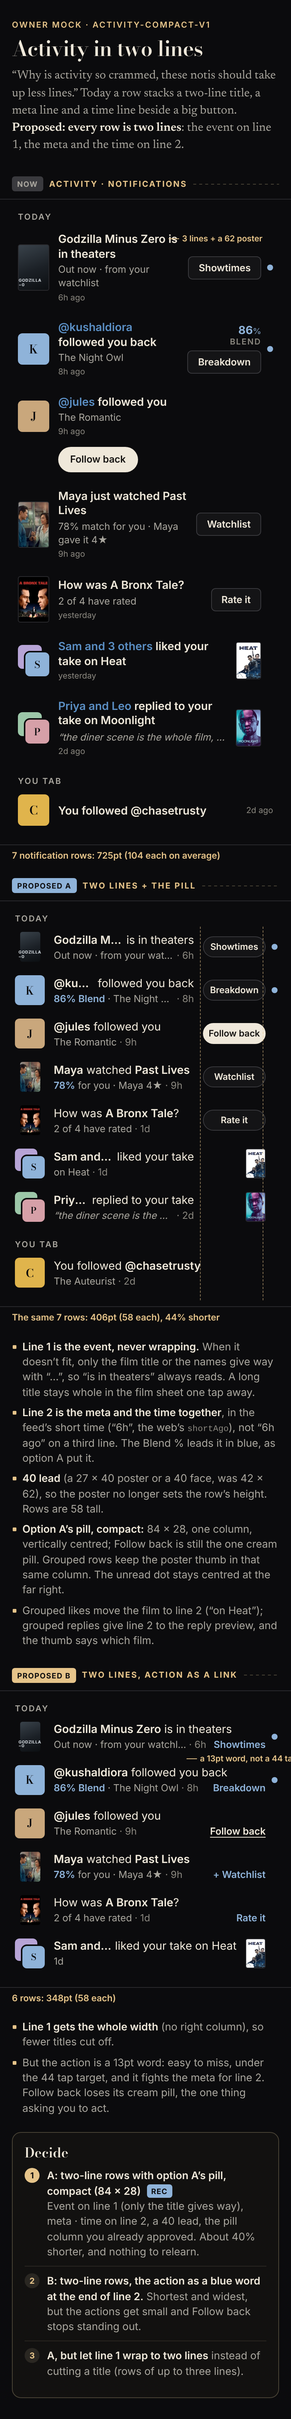
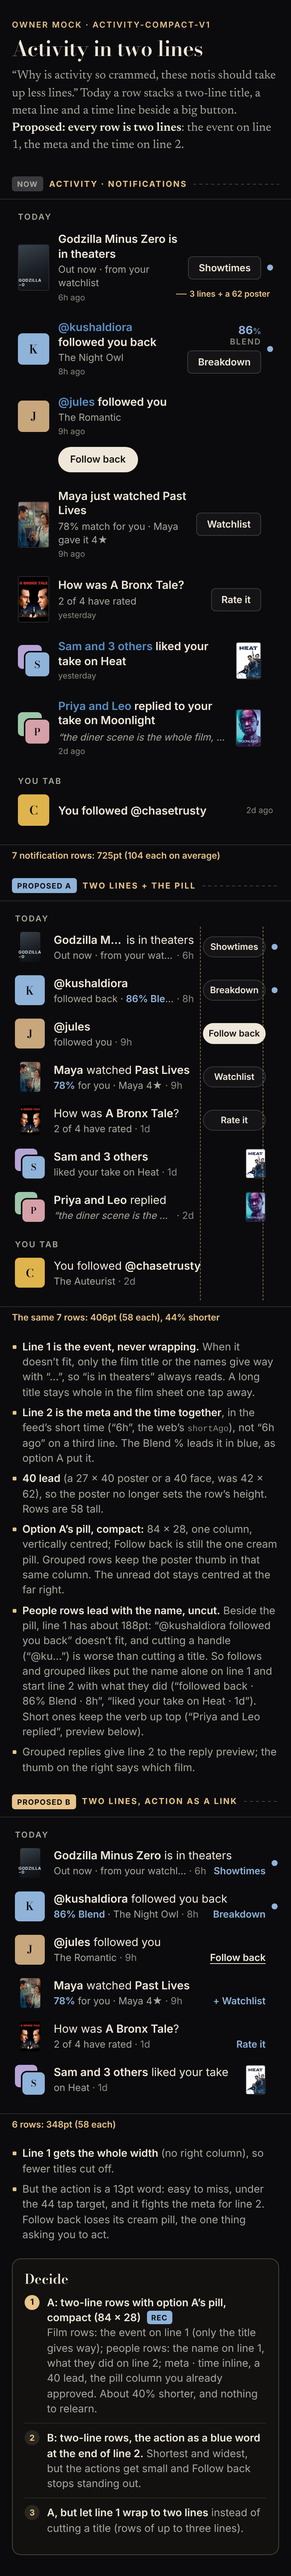
Update mock files
Claude-Session: https://claude.ai/code/session_013WRDCFXH8nihP92apJAVW7

Changed region(s): [[0.0308, 0.0, 0.9538, 0.9985], [0.7077, 0.1872, 0.9231, 0.312], [0.6462, 0.0936, 0.9231, 0.156]]

diff --git a/mockups/journeys/activity-compact-v1.html b/mockups/journeys/activity-compact-v1.html
@@ -93,7 +93,7 @@
   <div class="n-row"><span class="n-faces"><span class="fc" style="background:#9cc7a8">L</span><span class="fc top" style="background:#d6a0a8">P</span></span><div class="n-body"><div class="n-name"><em>Priya and Leo</em> replied to your take on Moonlight</div><div class="n-quote">“the diner scene is the whole film, honestly”</div><div class="n-time">2d ago</div></div><div class="n-aside"><i class="n-thumb" data-p="MOON"></i></div></div>
   <div class="caps" style="margin:14px 0 2px 8px">You tab</div>
   <div class="yrow"><span class="n-av fc" style="background:#e0b44c">C</span><div class="n-body"><div class="n-name">You followed @chasetrusty</div></div><span class="ytime">2d ago</span></div>
-  <div class="call" style="left:226px;top:46px">3 lines + a 62 poster</div>
+  <div class="call" style="left:236px;top:120px">3 lines + a 62 poster</div>
 </div>
 <div class="meas" id="m-now"></div>
 
@@ -102,12 +102,12 @@
 <div class="scr" id="pa">
   <div class="caps" style="margin:4px 0 2px 4px">Today</div>
   <div class="c-row"><div class="c-lead"><span class="po gz">GODZILLA −0</span></div><div class="c-body"><div class="l1"><b class="tr">Godzilla Minus Zero</b><span class="sp"> is in theaters</span></div><div class="l2"><span class="tx">Out now · from your watchlist</span><span class="tm">&nbsp;· 6h</span></div></div><span class="pa">Showtimes</span><span class="dot"></span></div>
-  <div class="c-row"><div class="c-lead"><span class="fc" style="background:#8fb3d9">K</span></div><div class="c-body"><div class="l1"><b class="tr">@kushaldiora</b><span class="sp"> followed you back</span></div><div class="l2"><span class="tx"><span class="bl">86% Blend</span> · The Night Owl</span><span class="tm">&nbsp;· 8h</span></div></div><span class="pa">Breakdown</span><span class="dot"></span></div>
-  <div class="c-row"><div class="c-lead"><span class="fc" style="background:#c9a77c">J</span></div><div class="c-body"><div class="l1"><b class="tr">@jules</b><span class="sp"> followed you</span></div><div class="l2"><span class="tx">The Romantic</span><span class="tm">&nbsp;· 9h</span></div></div><span class="pa prim">Follow back</span></div>
+  <div class="c-row"><div class="c-lead"><span class="fc" style="background:#8fb3d9">K</span></div><div class="c-body"><div class="l1"><b class="tr">@kushaldiora</b></div><div class="l2"><span class="tx">followed back · <span class="bl">86% Blend</span></span><span class="tm">&nbsp;· 8h</span></div></div><span class="pa">Breakdown</span><span class="dot"></span></div>
+  <div class="c-row"><div class="c-lead"><span class="fc" style="background:#c9a77c">J</span></div><div class="c-body"><div class="l1"><b class="tr">@jules</b></div><div class="l2"><span class="tx">followed you</span><span class="tm">&nbsp;· 9h</span></div></div><span class="pa prim">Follow back</span></div>
   <div class="c-row"><div class="c-lead"><i class="po" data-p="PAST"></i></div><div class="c-body"><div class="l1"><b>Maya</b><span class="sp"> watched </span><b class="tr">Past Lives</b></div><div class="l2"><span class="tx"><span class="bl">78%</span> for you · Maya 4★</span><span class="tm">&nbsp;· 9h</span></div></div><span class="pa">Watchlist</span></div>
   <div class="c-row"><div class="c-lead"><i class="po bx"></i></div><div class="c-body"><div class="l1"><span class="sp">How was </span><b class="tr">A Bronx Tale</b><span>?</span></div><div class="l2"><span class="tx">2 of 4 have rated</span><span class="tm">&nbsp;· 1d</span></div></div><span class="pa">Rate it</span></div>
-  <div class="c-row"><div class="c-lead"><span class="fc s" style="background:#b7a4d6">P</span><span class="fc s top" style="background:#8fb3d9">S</span></div><div class="c-body"><div class="l1"><b class="tr">Sam and 3 others</b><span class="sp"> liked your take</span></div><div class="l2"><span class="tx">on Heat</span><span class="tm">&nbsp;· 1d</span></div></div><span class="c-thumb"><i data-p="HEAT"></i></span></div>
-  <div class="c-row"><div class="c-lead"><span class="fc s" style="background:#9cc7a8">L</span><span class="fc s top" style="background:#d6a0a8">P</span></div><div class="c-body"><div class="l1"><b class="tr">Priya and Leo</b><span class="sp"> replied to your take</span></div><div class="l2"><span class="tx q">“the diner scene is the whole film, honestly”</span><span class="tm">&nbsp;· 2d</span></div></div><span class="c-thumb"><i data-p="MOON"></i></span></div>
+  <div class="c-row"><div class="c-lead"><span class="fc s" style="background:#b7a4d6">P</span><span class="fc s top" style="background:#8fb3d9">S</span></div><div class="c-body"><div class="l1"><b class="tr">Sam and 3 others</b></div><div class="l2"><span class="tx">liked your take on Heat</span><span class="tm">&nbsp;· 1d</span></div></div><span class="c-thumb"><i data-p="HEAT"></i></span></div>
+  <div class="c-row"><div class="c-lead"><span class="fc s" style="background:#9cc7a8">L</span><span class="fc s top" style="background:#d6a0a8">P</span></div><div class="c-body"><div class="l1"><b class="tr">Priya and Leo</b><span class="sp"> replied</span></div><div class="l2"><span class="tx q">“the diner scene is the whole film, honestly”</span><span class="tm">&nbsp;· 2d</span></div></div><span class="c-thumb"><i data-p="MOON"></i></span></div>
   <div class="caps" style="margin:14px 0 2px 4px">You tab</div>
   <div class="c-row you"><div class="c-lead"><span class="fc" style="background:#e0b44c">C</span></div><div class="c-body y1"><div class="l1"><span class="sp">You followed </span><b class="tr">@chasetrusty</b></div><div class="l2"><span class="tx">The Auteurist</span><span class="tm">&nbsp;· 2d</span></div></div></div>
   <div class="guide" style="left:268px"></div><div class="guide" style="left:352px"></div>
@@ -118,7 +118,8 @@
   <li><b>Line 2 is the meta and the time together</b>, in the feed’s short time (“6h”, the web’s <span class="mono">shortAgo</span>), not “6h ago” on a third line. The Blend % leads it in blue, as option A put it.</li>
   <li><b>40 lead</b> (a 27 × 40 poster or a 40 face, was 42 × 62), so the poster no longer sets the row’s height. Rows are 58 tall.</li>
   <li><b>Option A’s pill, compact:</b> 84 × 28, one column, vertically centred; Follow back is still the one cream pill. Grouped rows keep the poster thumb in that same column. The unread dot stays centred at the far right.</li>
-  <li>Grouped likes move the film to line 2 (“on Heat”); grouped replies give line 2 to the reply preview, and the thumb says which film.</li>
+  <li><b>People rows lead with the name, uncut.</b> Beside the pill, line 1 has about 188pt: “@kushaldiora followed you back” doesn’t fit, and cutting a handle (“@ku…”) is worse than cutting a title. So follows and grouped likes put the name alone on line 1 and start line 2 with what they did (“followed back · 86% Blend · 8h”, “liked your take on Heat · 1d”). Short ones keep the verb up top (“Priya and Leo replied”, preview below).</li>
+  <li>Grouped replies give line 2 to the reply preview; the thumb on the right says which film.</li>
 </ul></div>
 
 <!-- ───────────────────────── B ───────────────────────── -->
@@ -130,8 +131,7 @@
   <div class="c-row"><div class="c-lead"><span class="fc" style="background:#c9a77c">J</span></div><div class="c-body"><div class="l1"><b class="tr">@jules</b><span class="sp"> followed you</span></div><div class="l2"><span class="tx">The Romantic</span><span class="tm">&nbsp;· 9h</span><span class="lk prim">Follow back</span></div></div></div>
   <div class="c-row"><div class="c-lead"><i class="po" data-p="PAST"></i></div><div class="c-body"><div class="l1"><b>Maya</b><span class="sp"> watched </span><b class="tr">Past Lives</b></div><div class="l2"><span class="tx"><span class="bl">78%</span> for you · Maya 4★</span><span class="tm">&nbsp;· 9h</span><span class="lk">+ Watchlist</span></div></div></div>
   <div class="c-row"><div class="c-lead"><i class="po bx"></i></div><div class="c-body"><div class="l1"><span class="sp">How was </span><b class="tr">A Bronx Tale</b><span>?</span></div><div class="l2"><span class="tx">2 of 4 have rated</span><span class="tm">&nbsp;· 1d</span><span class="lk">Rate it</span></div></div></div>
-  <div class="c-row"><div class="c-lead"><span class="fc s" style="background:#b7a4d6">P</span><span class="fc s top" style="background:#8fb3d9">S</span></div><div class="c-body"><div class="l1"><b class="tr">Sam and 3 others</b><span class="sp"> liked your take on Heat</span></div><div class="l2"><span class="tx">1d</span></div></div><span class="c-thumb" style="width:auto"><i data-p="HEAT"></i></span></div>
-  <div class="call" style="left:250px;top:84px">a 13pt word, not a 44 target</div>
+  <div class="c-row"><div class="c-lead"><span class="fc s" style="background:#b7a4d6">P</span><span class="fc s top" style="background:#8fb3d9">S</span></div><div class="c-body"><div class="l1"><b class="tr">Sam and 3 others</b><span class="sp"> liked your take</span></div><div class="l2"><span class="tx">on Heat</span><span class="tm">&nbsp;· 1d</span></div></div><span class="c-thumb" style="width:auto"><i data-p="HEAT"></i></span></div>
 </div>
 <div class="meas" id="m-pb"></div>
 <div class="notes"><ul>
@@ -142,7 +142,7 @@
 <div class="decide">
   <h3>Decide</h3>
   <ol>
-    <li><b>A: two-line rows with option A’s pill, compact (84 × 28)</b> <span class="rec">Rec</span><br>Event on line 1 (only the title gives way), meta · time on line 2, a 40 lead, the pill column you already approved. About 40% shorter, and nothing to relearn.</li>
+    <li><b>A: two-line rows with option A’s pill, compact (84 × 28)</b> <span class="rec">Rec</span><br>Film rows: the event on line 1 (only the title gives way); people rows: the name on line 1, what they did on line 2; meta · time inline, a 40 lead, the pill column you already approved. About 40% shorter, and nothing to relearn.</li>
     <li><b>B: two-line rows, the action as a blue word at the end of line 2.</b> Shortest and widest, but the actions get small and Follow back stops standing out.</li>
     <li><b>A, but let line 1 wrap to two lines</b> instead of cutting a title (rows of up to three lines).</li>
   </ol>
